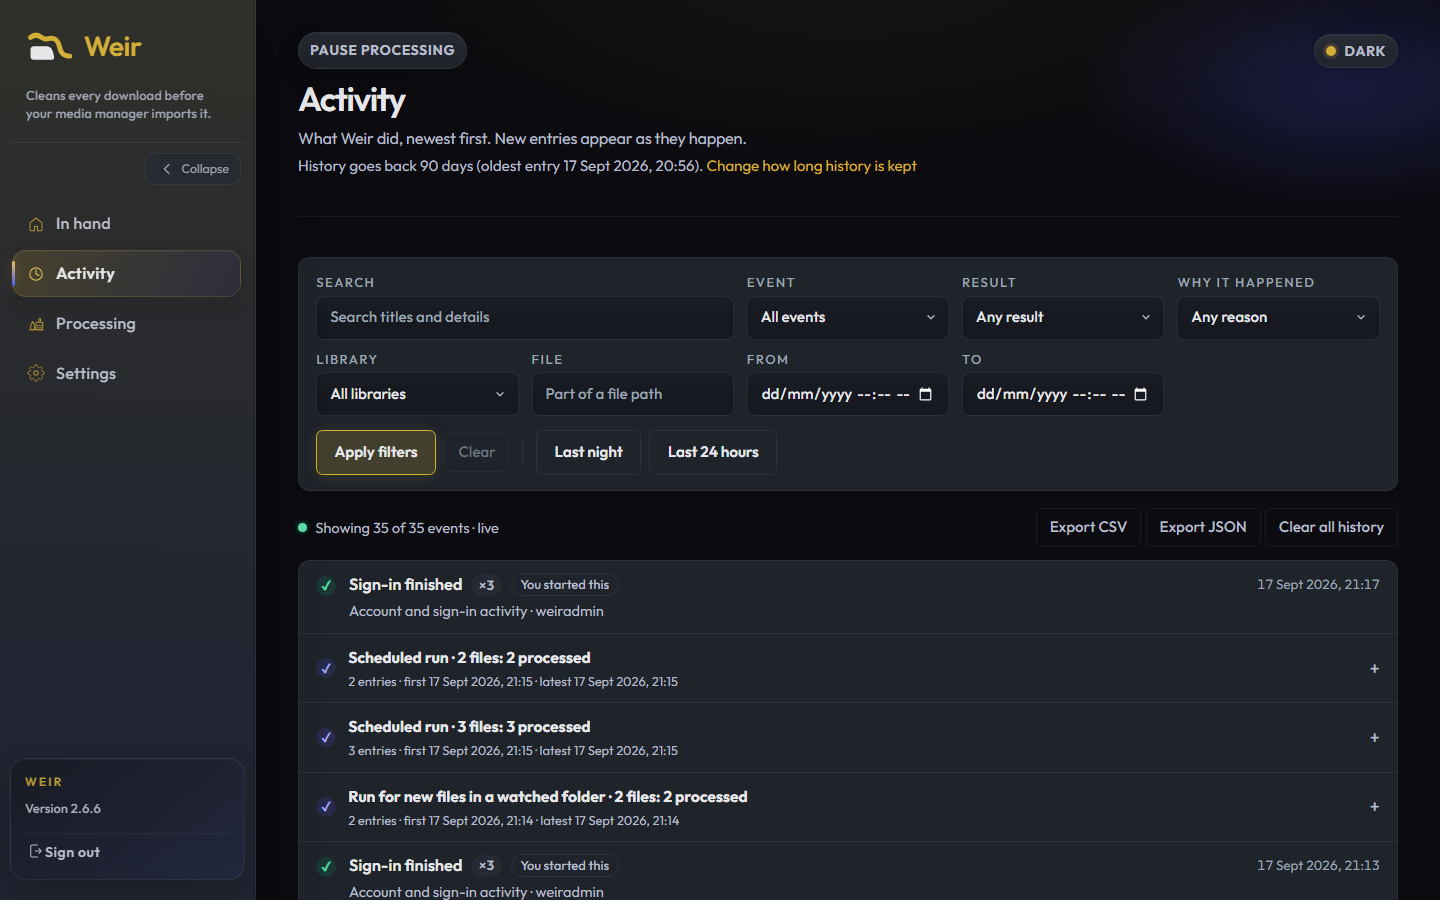
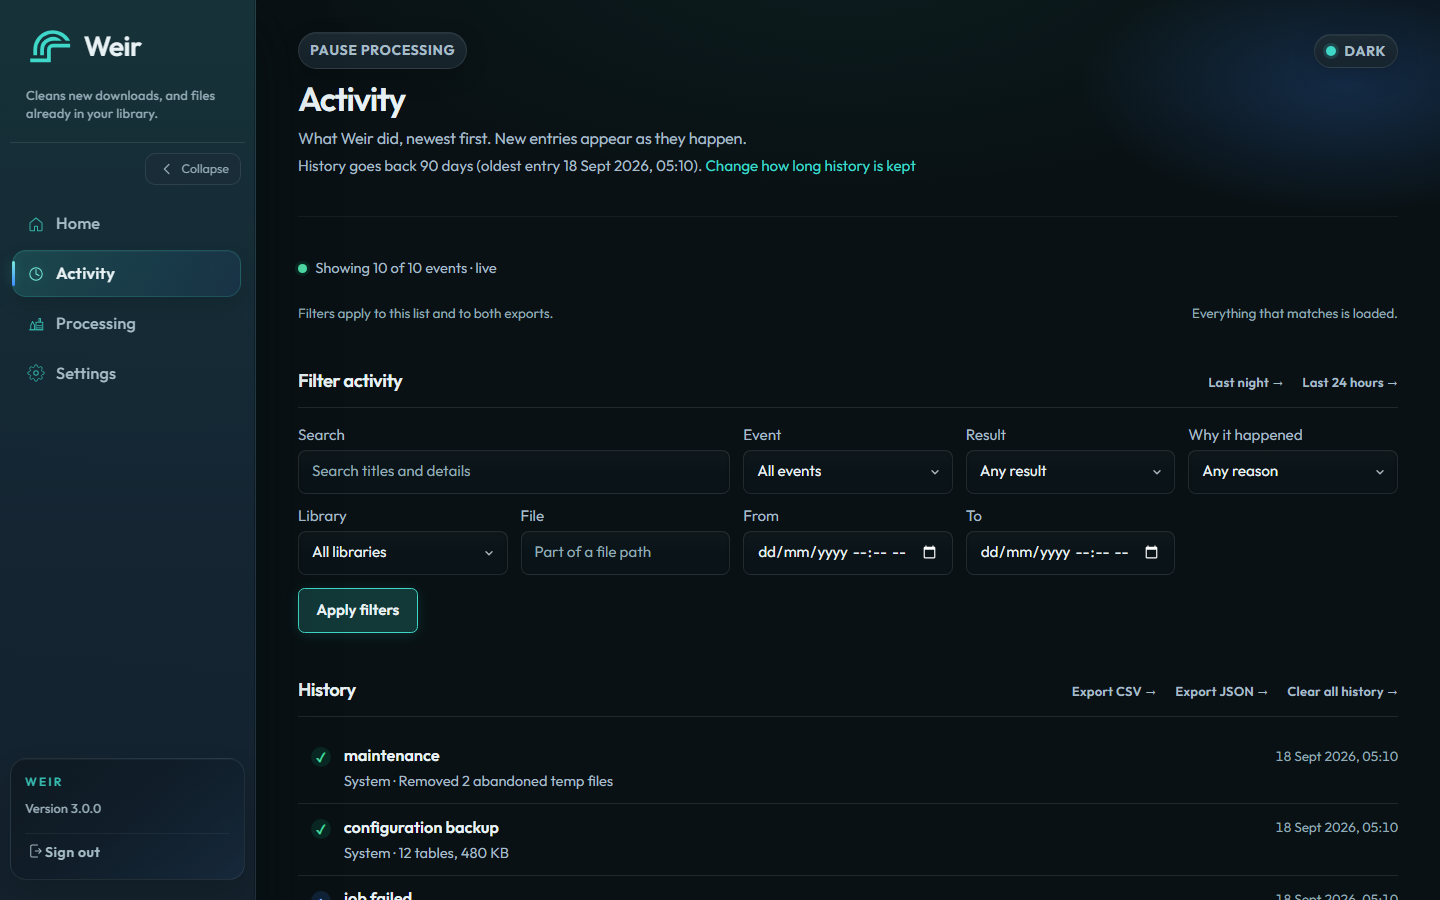
chore(release): prepare Weir 3.0.0 (#583)
* chore(release): prepare Weir 3.0.0

Bump WeirVersion in apps/server/Directory.Build.props and version in
apps/web/package.json from 2.6.6 to 3.0.0, the two numbers the release
workflow checks a v3.0.0 tag against, and carry the same number into
apps/web/package-lock.json so the lockfile does not disagree with the
manifest.

Add docs/release-notes/v3.0.0.md, written from TEMPLATE.md. The release
workflow publishes that file verbatim as the GitHub Release body and
errors if it is missing.

The number is 3.0.0 rather than 2.7.0 because the release breaks things
an operator can be relying on: /api/v1/refiner/... becomes
/api/v1/processing/..., the refiner_ database tables lose their prefix,
Pruner and the Dashboard are gone, and a MediaMop install has no upgrade
path to Weir. The notes lead with those and say plainly that the
database side is a migration nobody has to act on.

* docs(release): correct the 3.0.0 notes against what actually shipped

Four claims were wrong and five breaking changes were missing.

Wrong: the table list named file_states and media_facts, which are not tables —
migration 0009 renames seven (libraries, jobs, files, file_logs, rule_sets,
library_manager_links, operator_settings). /dashboard was described as redirecting
to In hand and ?tab=existing-library as still working; #585 deleted both, so an old
bookmark gets the not-found page. And "the logo is unchanged for now" stopped being
true when #582 and #587 replaced the mark.
[…]

diff --git a/docs/release-notes/v3.0.0.md b/docs/release-notes/v3.0.0.md
@@ -1,0 +1,80 @@
+# Weir v3.0.0
+
+Date: 2026-09-18
+
+This is a major release: MediaMop is now Weir, the word Refiner is gone from the product, the server has been rewritten on .NET, and the API routes and database tables have been renamed to match — so read the breaking changes below before you upgrade.
+
+## Breaking Changes
+
+Most of this is handled for you. The one item that needs your attention is the first.
+
+- **API routes have moved.** `/api/v1/refiner/...` is now `/api/v1/processing/...`. The old paths are gone; they are not redirected. **If you have a script, a dashboard, a webhook or any other tool calling Weir's API, you have to update it.** Two smaller route changes go with it: `/api/v1/suite/pause` is now `/api/v1/pause`, and `GET /api/v1/dashboard/status` has been removed.
+- **Database tables have been renamed, automatically.** The `refiner_` prefix is gone, because the database is Weir's: `refiner_libraries` becomes `libraries`, `refiner_jobs` becomes `jobs`, `refiner_files` becomes `files`, and the same for the file logs, rule sets, library manager links and operator settings. Job kinds and activity event names lose the prefix too. A fresh install starts with the new names; if you ran a pre-release Weir build, a migration renames them on first start and keeps your rows. **If you use Weir through its own screens, there is nothing for you to do.** Only direct SQL against the database needs changing.
+- **The product is called Weir everywhere, and there is no upgrade path from a MediaMop install.** The Docker image is `ghcr.io/jampat000/weir`, the data volume is `/data/weir`, the database file is `weir.sqlite3`, environment variables are `WEIR_*`, and the Windows installer is `Weir-win-Setup.exe`. There are no `MEDIAMOP_*` fallbacks and nothing reads the old paths. A MediaMop installation is not migrated — Weir installs as a new application, with a new configuration.
+- **Pruner has been removed.** Its job now lives in Deluno. Its pages, settings, notifications and activity types are gone, its tables are dropped by a migration, and the Jellyfin, Emby and Plex credentials that only Pruner used have gone with it. Pruner sections in an older configuration backup are ignored on restore rather than failing it.
+- **The Dashboard has been removed.** **Home** at `/` is the main screen and shows warnings when something is wrong. `/dashboard` is gone rather than redirected — an old bookmark gets the not-found page.
+- **Every suite API handler answers on one address now.** The configuration bundle used to be reachable at three URLs, the snapshot list and download at two each, and the update check at two, because the .NET port kept the Python spellings alongside the new ones. The aliases are gone: `GET`/`PUT /api/v1/system/suite-configuration-bundle`, `GET /api/v1/system/suite-configuration-backups` and its `/download`, `GET`/`PUT /api/v1/suite/settings/configuration-bundle` and `GET /api/v1/suite/settings/update-status` all return not-found. Use `/api/v1/suite/configuration-bundle`, `/api/v1/suite/configuration-backups` and `/api/v1/suite/update-status`.
+- **`application_logs_enabled` has been removed from the settings API.** It was accepted and then discarded — setting it never did anything. Sending it now is ignored along with any other unknown key, rather than being quietly accepted as if it mattered.
+- **Three environment variables have been removed:** `WEIR_SUBBER_WEBHOOK_SECRET` (use `WEIR_MEDIA_MANAGER_WEBHOOK_SECRET`), the `WEIR_PROCESSING_WORK_TEMP_STALE_SWEEP_*` spelling of the stale-sweep schedule, and `WEIR_PROCESSING_REMUX_MEDIA_ROOT`, which was read from the environment and then never used for anything. Setting one now does nothing instead of appearing to work.
+- **Configuration backups from before 3.0.0 cannot be restored.** Only format version 4 — what this release exports — is accepted. Export a fresh bundle after upgrading.
+- **The two old default work folders are treated as ordinary custom paths.** A library whose work folder is literally `C:\ProgramData\Media\processing-movie-work` or `C:\ProgramData\Weir\processing-tv-work` used to be quietly redirected to the default under `WEIR_HOME`, and created if missing. It is now used exactly as stored, and the run is refused if the folder does not exist. **A library with no work folder set is unaffected** and still uses the default. If you have one of those paths saved, either clear the field or make sure the folder exists.
+
+## What Changed
+
+- **Weir's server is a new program.** The Python backend has been deleted and replaced by a .NET 10 build. Same port and same health check — the volume and data paths changed with the rename, above — and Docker images for both `linux/amd64` and `linux/arm64`. The Windows package bundles the .NET server and ffmpeg, and the tray app supervises it as before. One packaging bug went with the rewrite: the packaged server never looked in its own bundled ffmpeg folder.
+- **A new theme, Tailrace.** Cool slate surfaces with a teal-cyan accent, chosen to sit apart from the blues and oranges of the tools Weir works with. Text, links and focus rings pass contrast in both dark and light. There is a new mark to go with it: three streams falling over a wall, traced from the drawing that was accepted rather than redrawn by eye. A second, simpler two-stream drawing exists only for the 16px frame inside the favicon and the Windows tray icon, where three bands fuse into a smear; at 24px and above — every other icon size, the SVG favicon and the mark in the sidebar — you are looking at the three-stream mark.
+- **The inside of every page has been redesigned; the menus around it have not.** The sidebar, the top bar, the page header and the tab row are exactly as they were — they were finished, and they were left alone on purpose. Everything inside them has been rebuilt to one written-down language, page by page, from the first-run wizard to Settings. The sign-in and not-found screens were already this plain and are unchanged. Nothing an integration depends on moved: this is how the pages look, not what they do.
+- **Three screens now lead with a status band.** **Home**, **Processing -> Overview** and **Processing -> Files** each open with one full-width band whose segments are as wide as the number each one carries, so where your files are sitting is the first thing you see. Every segment is a control — click one and you land on the file list filtered to exactly that state. The band never quietly drops a state it does not draw: it counts those too and says so in the line underneath.
+- **Where a band could not be drawn honestly, there is none.** Activity has no band because its outcome counts cannot be gathered often enough to stay live without making every page in a run refetch, and Settings has no band because it has no "now". The same restraint applies to the big numbers: a page only leads with one where there is a real number to lead with.
+- **Most cards and panels are gone.** Instead of boxes inside boxes, a section is a heading, a hairline and its content, and tables have lost their frames. Below 760px a table folds into labelled rows, so the Library file list's nine columns are readable on a phone for the first time — the trade is that the sort controls and the select-all box, which live in the header row, are not there at that width.
+- **Settings lost its boxes too, except where one is doing a job.** General is now a single column of headed groups, each with its **Save** directly beneath its own rule, so it is always clear which form a button writes. Each media manager connection still sits in a frame, because it carries three actions and a one-time secret, and the frame is what says which **Remove** belongs to which connection.
+- **A real Library view.** The tab that used to be a bare list is now **Library**, with its own sub-navigation: **Overview** (file and size totals, how many match your rules, would change, or cannot be processed, estimated space saved, and breakdowns by video codec, resolution, audio codec and channels, audio language and subtitle language), **Files** (a sortable, paged table you can narrow with facet filters, with multi-select cleaning and a per-file rules preview), **Codecs** and **Languages** (the same breakdowns as sortable tables), and **Problems** (groups with plain advice, plus the titles your media manager could download again). A migration fills the new breakdown data in from each file's cached probe results — nothing is re-probed, and anything unknown reads "unknown".
+- **mkvmerge now ships with Weir and writes Matroska by default.** ffmpeg is still bundled and still writes everything else. Each library has a writer setting: `best`, the default, means mkvmerge for `.mkv` and ffmpeg for every other container; `ffmpeg` means ffmpeg writes everything, which is what every earlier version did. On Matroska, mkvmerge keeps attachments and disposition flags, and drops stale per-track statistics tags. The screen for choosing per library follows in a later release; the default applies to existing libraries as well as new ones.
+- **A failed write is rewritten by ffmpeg, so the new writer cannot leave you worse off.** If mkvmerge fails to run, or its output fails Weir's own output validation, ffmpeg rewrites the file and it is validated again. A cancelled job stays cancelled rather than quietly starting a second write. Files where your rules keep embedded cover art are written by ffmpeg, as they were before.
+- **What was tested through both writers, and what was not.** Dolby Vision profile 7, TrueHD Atmos and DTS-HD MA all come through mkvmerge and ffmpeg byte-identically on real UHD remuxes. **PGS subtitles have not been verified** — no sample was obtainable — so treat PGS through mkvmerge as untested.
+- **Libraries know about your media manager.** Files in a library are matched to their Sonarr or Radarr titles, so the re-download warnings and the "Download again" action work on them. Libraries can be discovered from a connected manager, imported, checked for drift and unlinked.
+- **Watched folders are watched, not polled.** Each enabled library gets a filesystem watcher, debounced, falling back to a full rescan if it is overwhelmed, and readiness reports what the watcher is actually doing.
+- **More of the rules are editable.** Hearing-impaired subtitle removal, language variants, per-language caps on audio and subtitle tracks, track name templates with a live preview, clearing video track names, and removing chapters.
+- **Home tells each file's story in plain language** — what state it is in, why, and with live per-file progress — and a read-only Direct Play badge shows whether a file will play directly on the devices you own.
+- **Activity is a history page.** Filter it, group it by run, export it, keep it for a stated time and prune it. Every entry says why it happened and how it went.
+- **`Weir recover`** resets a password, reactivates an account, revokes sessions and records the fact in Activity, for when you are locked out of your own install.
+- **Output ownership on Linux.** `WEIR_CHOWN_OUTPUT`, `WEIR_FILE_MODE_OUTPUT` and `WEIR_DIR_MODE_OUTPUT` are applied when Weir publishes a file. They are ignored on Windows, with a warning.
+
+## Fixes And Stability
+
+- **The migration engine could delete rows when a migration rebuilt a table.** Rebuilding a table in SQLite means creating the new one, copying the rows across and dropping the old one — and dropping it fires `ON DELETE CASCADE` on everything that references it, taking the children with it, and their children after that. Weir tried to hold this off with `defer_foreign_keys`, but that only defers *violations*; it does not stop a cascade, and `PRAGMA foreign_keys` is a no-op inside a transaction, which is where it was being set. Foreign keys are now turned off before the transaction is opened and checked with `PRAGMA foreign_key_check` before it commits. This was present in every release that has shipped, and it is the most serious thing fixed here.
+- **Restoring a configuration backup from a file was broken.** Settings refused any bundle whose format version was not 1, while the server has written version 4 since the configuration rework — so every genuine export was rejected before it was even sent. The version is the server's to check, and the screen no longer second-guesses it. If you concluded your backups were corrupt, they were not.
+- **A file that made ffprobe print a warning failed its own remux, every time.** Weir fails a remux when the output carries a warning the source did not. Before comparing, it normalises the pointer addresses in ffmpeg's messages — but ffmpeg prints those addresses bare, with no `0x`, so they were never matched and every warning on a correct output looked new. Any such file was picked up, rejected and retried forever. A font attachment is the easy way to hit it, which means most anime could never be processed. Nothing was lost — Weir hands the original back rather than stranding a file — but nothing could be done with those files either. Fixed, with tests written from real captured ffmpeg output rather than invented shapes.
+- **Weir never strands a file.** If processing gives up, the original is handed back. A release Weir cannot process is rejected with a reason instead of being retried blindly, and a failed file can be retried or requeued from the Files screen.
+- **Folder hand-offs report states a media manager accepts**, and a manager can ask about a hand-off and cancel it.
+- **A failed job now writes one plain Activity entry**, with retry wording that matches what actually happens, instead of several confusing ones.
+- **The last retry gap** from the job-queue rework is closed, and library mode and rule options now have proper database columns rather than living in a settings row.
+- **On a phone, the hidden menu is now really hidden.** Below 920px the sidebar slides off the side of the screen — but it stayed in the tab order, so a keyboard or screen-reader user tabbed through all four links and could reach **Sign out** without ever seeing the menu, before reaching the button that opens it. It is now out of the tab order and the accessibility tree while it is closed, and the slide-out is unchanged. Two smaller things went with it: the sidebar is announced as "Weir" rather than "Product", and the line under the wordmark says what Weir actually does now — "Cleans new downloads, and files already in your library" — instead of describing only half of it.
+- **Remove asks first.** **Remove** on a media manager connection, and on a notification channel, deleted it on the first click with nothing asked and nothing to undo. Both now open a confirmation that names the item it is about to remove, opens with **Cancel** focused so Enter keeps the thing, and closes on Escape. What Remove does once you confirm is unchanged.
+- **A burst of hand-offs could fail after thirty seconds.** When several downloads arrived at once, a hand-off that read the database before writing to it could find another hand-off had written first. SQLite then refuses the write outright rather than waiting, so the request retried until it timed out and failed. With sixteen hand-offs arriving together, 43 of 320 used to fail this way; now none do, and they finish in milliseconds instead of half a minute. The fix covers every part of Weir that reads then writes, not only hand-offs.
+- **Four job actions could hang for thirty seconds and then fail.** Cancelling a queued job, recovering a job that failed to finalise, moving a file to the top of the queue and requeuing a file each held the database's single write lock for the request and then waited for that same lock a second time, so they stalled for the full timeout and answered with an error. It only happened when the request also refreshed your sign-in, which is why it looked random rather than broken. Fixed at all four.
+- **Narrow desktop windows stopped cutting the right-hand edge off.** From the width where the sidebar becomes a drawer up to about 1100px — and up to about 1300px on the Jobs and Library file tables — the main column was wider than the window and the excess was clipped rather than scrolled, so the theme toggle, the end of the tab row and the right-hand columns of tables were simply missing, with no scrollbar to hint at it. Processing's tabs and Settings were affected; Home and Activity were not. It was there before the redesign, not caused by it.
+- **The screen you get when a page fails now looks like Weir.** It used eight class names that nothing in the app styled, so its heading, its explanation and its **Reload Weir** button all rendered as the same plain text — and it rebuilt the app's sidebar inside the failure, which pushed the message itself below the fold and drew a second sidebar beside the real one when you were signed in. It is now the same shape as the not-found page, focus moves to the message when it appears, and it offers a link back to the start.
+- **The loading placeholder draws something.** While a page's code loads, the placeholder sidebar beside "Loading Weir" was a blank rectangle: the marks it was meant to show were styled by class names that did not exist. They are there now, and they stop moving if you have asked for reduced motion.
+- **Sign-in hardening:** case-insensitive usernames, a way to change yours, a per-request Secure cookie, and two lockout fixes. The minimum password length is 8 everywhere, pinned by a test.
+- **Dependency updates** across the server, the web app, the tray and the test tooling, including three major test-infrastructure versions verified locally before merge.
+
+## Upgrade Notes
+
+- **Most people need to do nothing.** The table renames, the Pruner cleanup and the new library breakdown data are all applied by migrations when Weir first starts.
+- **If anything of yours calls Weir's API, change `/api/v1/refiner/...` to `/api/v1/processing/...` before you upgrade.** Also `/api/v1/suite/pause` to `/api/v1/pause`. `GET /api/v1/dashboard/status` no longer exists.
+- **Coming from MediaMop 2.x?** There is no in-place upgrade. The application name, install location, data path, database file, environment variables and Docker image have all changed, and nothing reads the old ones. Install Weir fresh and configure it.
+- Windows users can install the release with `Weir-win-Setup.exe`; it installs per user under `%LocalAppData%\Weir` and needs no administrator.
+- After that one-time bootstrap, future upgrades can be started from **Settings -> Upgrade**, or from **Check for updates** in the tray.
+- Docker users should pull the new image name and use a `/data/weir` volume. Upgrade with `docker compose pull && docker compose up -d`.
+- **Databases from this release cannot be opened by an older version.** Take a copy of your data volume before upgrading if you want a way back.
+
+## Docker
+
+- `ghcr.io/jampat000/weir:3.0.0`
+- `ghcr.io/jampat000/weir:latest`
+- Images are published for `linux/amd64` and `linux/arm64`, and run the .NET build of the Weir server.
+
+## Full Changelog
+
+https://github.com/jampat000/Weir/compare/v2.6.6...v3.0.0

diff --git a/README.md b/README.md
@@ -41,9 +41,9 @@ library can be set to use ffmpeg for everything instead.
 | --- | --- |
 | ![Home](screenshots/home.png) | ![Activity](screenshots/activity.png) |
 
-| Processing | Existing library |
+| Processing | Library |
 | --- | --- |
-| ![Processing](screenshots/processing.png) | ![Existing library](screenshots/existing-library.png) |
+| ![Processing](screenshots/processing.png) | ![Library](screenshots/library.png) |
 
 | Settings |
 | --- |
